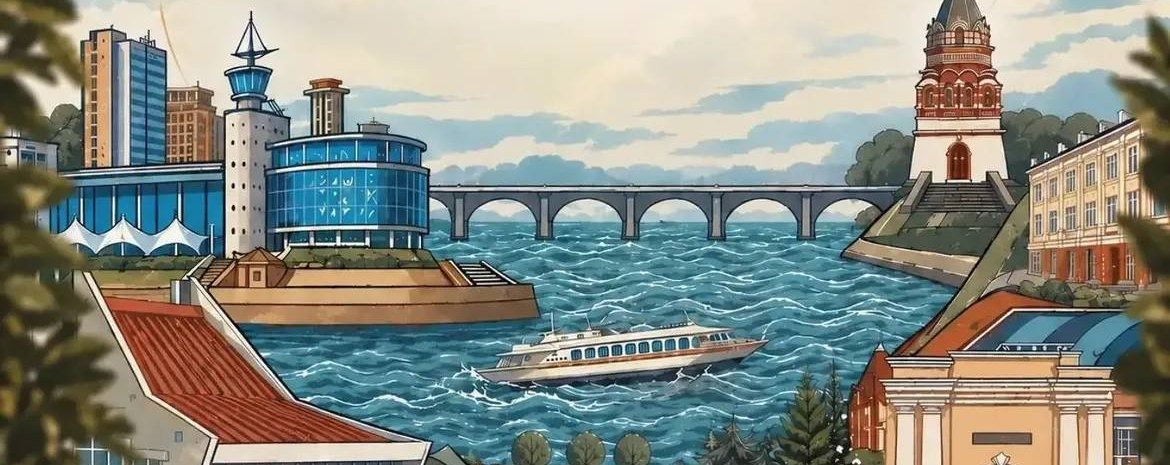
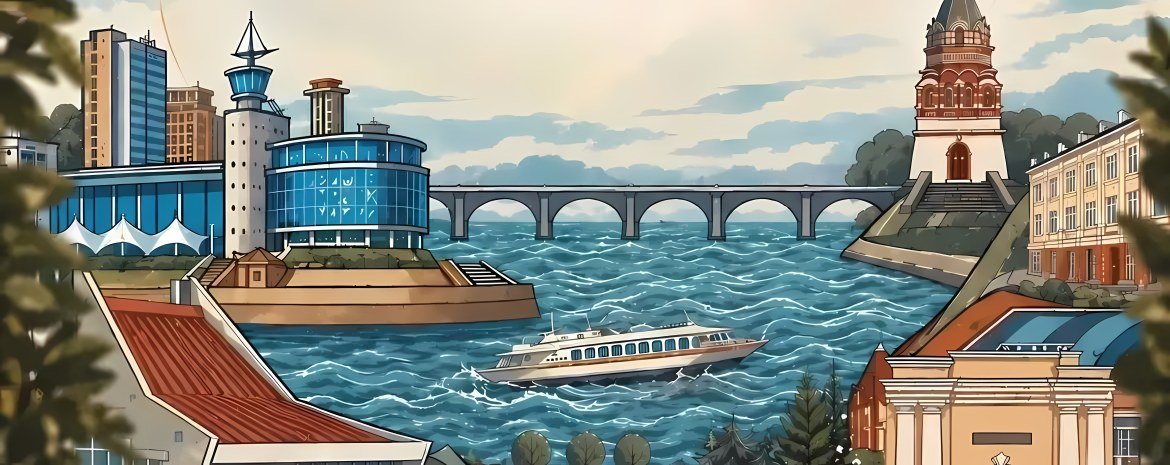
Сделать иллюстрацию города чёткой на больших экранах
Исходник 1170 px растягивался в 2–3 раза и выглядел мыльно. Увеличил его
нейросетью Real-ESRGAN (модель для рисованной графики) и отдаю через
<picture> в WebP под плотность экрана: 1170, 2340 и 3510 px.
WebGL берёт ту же картинку, что выбрал браузер. Маски и вода под
теплоходом пересчитаны в высоком разрешении. Если видеокарта не
успевает, холст сам уменьшается.

Claude-Session: https://claude.ai/code/session_01VbjWB9g7LcQ7bNPAys2bQ9

diff --git a/index.html b/index.html
@@ -225,7 +225,7 @@ button{background:none;border:0;cursor:pointer;-webkit-tap-highlight-color:trans
 .find{position:relative;background:url(img/grain.png?v=13940c),var(--milk);padding-bottom:clamp(76px,9vw,140px)}
 .find__city{--ch:clamp(190px,27vw,400px);position:relative;height:var(--ch);overflow:hidden;overflow:clip;background:#cfe0e3}
 .city{position:absolute;left:50%;top:58%;width:max(100%,calc(var(--ch)*2.5162));aspect-ratio:1170/465;transform:translate(-50%,-58%)}
-.city>*{position:absolute;inset:0;width:100%;height:100%}
+.city>*,.city img{position:absolute;inset:0;width:100%;height:100%}
 .city canvas{opacity:0;transition:opacity 1.2s}
 .city canvas.is-on{opacity:1}
 .city__fx{display:none;pointer-events:none;overflow:visible}
@@ -541,7 +541,10 @@ button{background:none;border:0;cursor:pointer;-webkit-tap-highlight-color:trans
 <section class="find" id="find" aria-labelledby="findTitle">
   <figure class="find__city">
     <div class="city">
-      <img src="img/omsk-city.jpg?v=bc8dc3" width="1170" height="465" loading="lazy" alt="Иллюстрация: Омск, Иртыш, арочный мост, часовня и Тобольские ворота">
+      <picture>
+        <source type="image/webp" srcset="img/omsk-city.webp?v=ee4f0b 1170w, img/omsk-city@2x.webp?v=fb3502 2340w, img/omsk-city@3x.webp?v=9133f9 3510w" sizes="(max-width:478px) 478px, 100vw">
+        <img src="img/omsk-city.jpg?v=1aef33" width="1170" height="465" loading="lazy" alt="Иллюстрация: Омск, Иртыш, арочный мост, часовня и Тобольские ворота">
+      </picture>
       <svg class="city__fx" viewBox="0 0 1170 465" aria-hidden="true" focusable="false">
         <defs><clipPath id="cityDeck"><rect x="432" y="160" width="467" height="25.4"/></clipPath></defs>
         <g clip-path="url(#cityDeck)" stroke="#2B2622" stroke-width=".6" stroke-linejoin="round">
@@ -887,7 +890,7 @@ form.addEventListener('submit',e=>{
   const fig=$('.find__city'),box=$('.city',fig),pic=$('img',box);
   if(RM)return;
   fig.classList.add('is-live');
-  // маски в omsk-city-fx.png: сверху R вода, G небо, B листва; снизу R передний план, G стекло, B теплоход
+  // маски в omsk-city-fx.webp: сверху R вода, G небо, B листва; снизу R передний план, G стекло, B теплоход
   const FS=`precision highp float;
 uniform sampler2D uBase,uPatch,uFx;uniform vec2 uRes;uniform float uT,uSky;uniform vec3 uBoat;
 const vec2 IM=vec2(1170.,465.);const vec4 PR=vec4(445.,297.,785.,408.);
@@ -925,10 +928,10 @@ void main(){
   if(bp.x>470.&&bp.x<776.&&bp.y>305.&&bp.y<390.)c=mix(c,base(bp),fx(bp,IM.y).b*(1.-B.r));
   gl_FragColor=vec4(c,1.);
 }`;
-  let gl=null,cv=null,U={},raf=0,t0=-1,tOff=0,on=false;
+  let gl=null,cv=null,U={},raf=0,t0=-1,tOff=0,on=false,texW=2340,q=1,fN=0,fT=0,fL=0;
   const load=src=>new Promise((ok,no)=>{const i=new Image();i.onload=()=>ok(i);i.onerror=no;i.src=src;});
   function fit(){
-    const w=Math.min(2340,Math.round(box.clientWidth*Math.min(devicePixelRatio||1,2)));
+    const w=Math.min(texW,Math.round(box.clientWidth*(devicePixelRatio||1)*q));
     if(!gl||!w||cv.width===w)return;
     cv.width=w;cv.height=Math.round(w*465/1170);
     gl.viewport(0,0,cv.width,cv.height);gl.uniform2f(U.res,cv.width,cv.height);
@@ -944,18 +947,22 @@ void main(){
     raf=0;if(!on||document.hidden)return;
     if(t0<0)t0=now-tOff*1e3;
     tOff=(now-t0)/1e3;draw(tOff);
+    // слабая видеокарта не успевает: уменьшаем холст
+    if(fL&&q>.5&&++fN>=90){if((now-fT)/fN>24){q*=.75;fit();}fN=0;fT=now;}
+    if(!fL){fL=1;fT=now;}
     raf=requestAnimationFrame(tick);
   }
   function play(){
     fig.classList.toggle('is-run',on&&!document.hidden);
     if(!gl)return;
     if(on&&!document.hidden){if(!raf)raf=requestAnimationFrame(tick);}
-    else{if(raf)cancelAnimationFrame(raf);raf=0;t0=-1;}
+    else{if(raf)cancelAnimationFrame(raf);raf=0;t0=-1;fL=fN=0;}
   }
   function start(imgs){
     cv=document.createElement('canvas');cv.setAttribute('aria-hidden','true');
     const g=cv.getContext('webgl',{alpha:false,antialias:false,depth:false,stencil:false,powerPreference:'low-power'});
-    if(!g)return;
+    if(!g||imgs[0].naturalWidth>g.getParameter(g.MAX_TEXTURE_SIZE))return;
+    texW=imgs[0].naturalWidth;
     const sh=(type,src)=>{const s=g.createShader(type);g.shaderSource(s,src);g.compileShader(s);return s;};
     const pr=g.createProgram();
     g.attachShader(pr,sh(g.VERTEX_SHADER,'attribute vec2 a;void main(){gl_Position=vec4(a,0.,1.);}'));
@@ -977,14 +984,16 @@ void main(){
     ['res','t','sky','boat'].forEach(n=>U[n]=g.getUniformLocation(pr,'u'+n[0].toUpperCase()+n.slice(1)));
     gl=g;
     cv.addEventListener('webglcontextlost',()=>{cv.classList.remove('is-on');if(raf)cancelAnimationFrame(raf);raf=0;gl=null;});
-    pic.after(cv);
+    (pic.closest('picture')||pic).after(cv);
     fit();new ResizeObserver(fit).observe(box);
     draw(tOff);requestAnimationFrame(()=>cv.classList.add('is-on'));
     play();
   }
   new IntersectionObserver((es,o)=>{
     if(!es[0].isIntersecting)return;o.disconnect();
-    Promise.all([pic.currentSrc||pic.src,'img/omsk-city-patch.jpg?v=ecac7b','img/omsk-city-fx.png?v=25b90c'].map(load)).then(start,()=>{});
+    // картинку берём ту, что браузер выбрал под экран
+    (pic.complete&&pic.naturalWidth?Promise.resolve():new Promise((ok,no)=>{pic.addEventListener('load',ok,{once:true});pic.addEventListener('error',no,{once:true});}))
+      .then(()=>Promise.all([pic.currentSrc||pic.src,'img/omsk-city-patch.webp?v=99a294','img/omsk-city-fx.webp?v=9b6723'].map(load))).then(start,()=>{});
   },{rootMargin:'500px 0px'}).observe(fig);
   new IntersectionObserver(es=>{on=es[es.length-1].isIntersecting;play();}).observe(fig);
   document.addEventListener('visibilitychange',play);
